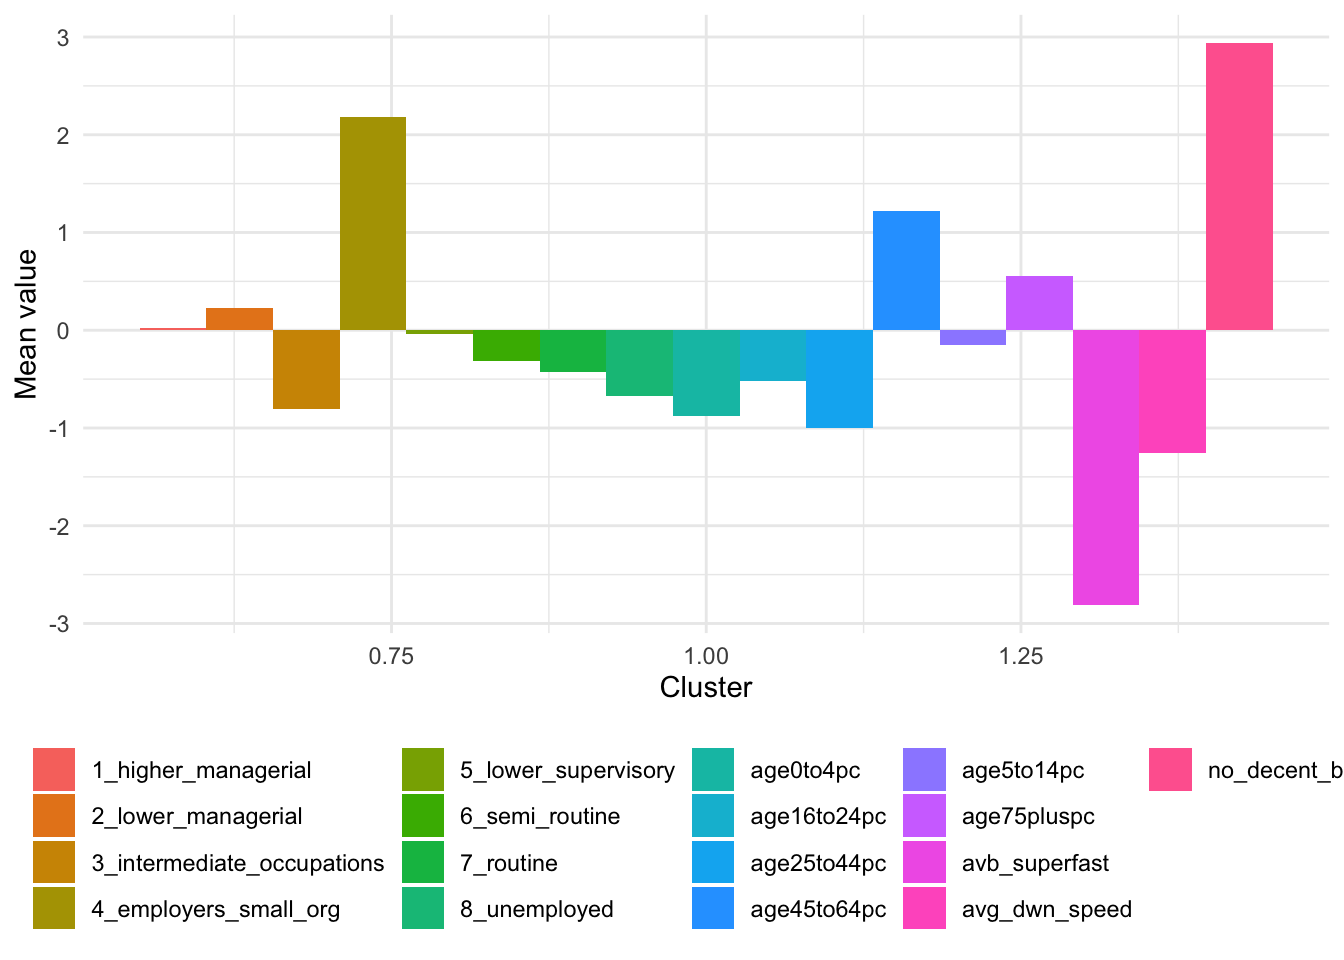
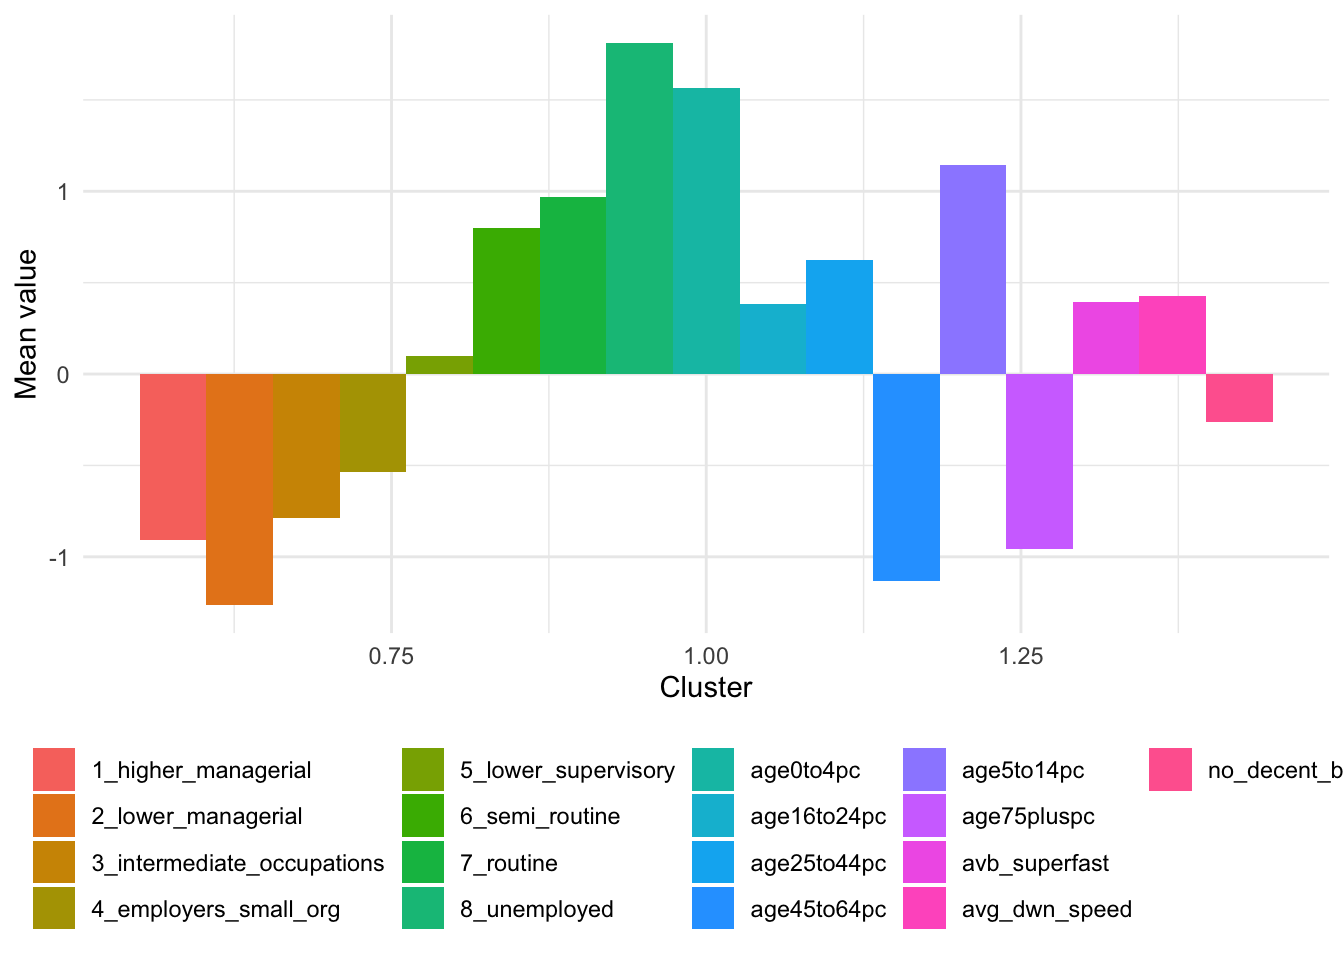
update code layout plots

Changed region(s): [[0.3438, 0.0312, 0.9688, 0.6562], [0.0938, 0.125, 0.4062, 0.6562]]

diff --git a/docs/01-geodemographics.html b/docs/01-geodemographics.html
@@ -706,7 +706,7 @@ First 10 features:
 [1] 110934.1
 
 [[3]]
-[1] 96048.04
+[1] 96047.11
 
 [[4]]
 [1] 82701.63
@@ -730,15 +730,15 @@ First 10 features:
 <span id="cb22-6"><a href="#cb22-6" aria-hidden="true" tabindex="-1"></a></span>
 <span id="cb22-7"><a href="#cb22-7" aria-hidden="true" tabindex="-1"></a><span class="co"># add cluster numbers</span></span>
 <span id="cb22-8"><a href="#cb22-8" aria-hidden="true" tabindex="-1"></a>wss_values<span class="sc">$</span>cluster <span class="ot">&lt;-</span> <span class="fu">seq.int</span>(<span class="fu">nrow</span>(wss_values))</span>
-<span id="cb22-9"><a href="#cb22-9" aria-hidden="true" tabindex="-1"></a><span class="fu">names</span>(wss_values) <span class="ot">&lt;-</span> <span class="fu">c</span>(<span class="st">'wss'</span>,<span class="st">'cluster'</span>)</span>
+<span id="cb22-9"><a href="#cb22-9" aria-hidden="true" tabindex="-1"></a><span class="fu">names</span>(wss_values) <span class="ot">&lt;-</span> <span class="fu">c</span>(<span class="st">"wss"</span>,<span class="st">"cluster"</span>)</span>
 <span id="cb22-10"><a href="#cb22-10" aria-hidden="true" tabindex="-1"></a></span>
 <span id="cb22-11"><a href="#cb22-11" aria-hidden="true" tabindex="-1"></a><span class="co"># plot using ggplot2</span></span>
 <span id="cb22-12"><a href="#cb22-12" aria-hidden="true" tabindex="-1"></a><span class="fu">ggplot</span>(<span class="at">data=</span>wss_values, <span class="fu">aes</span>(<span class="at">x=</span>cluster,<span class="at">y=</span>wss)) <span class="sc">+</span></span>
 <span id="cb22-13"><a href="#cb22-13" aria-hidden="true" tabindex="-1"></a>  <span class="fu">geom_point</span>() <span class="sc">+</span></span>
 <span id="cb22-14"><a href="#cb22-14" aria-hidden="true" tabindex="-1"></a>  <span class="fu">geom_path</span>() <span class="sc">+</span> </span>
 <span id="cb22-15"><a href="#cb22-15" aria-hidden="true" tabindex="-1"></a>  <span class="fu">scale_x_continuous</span>(<span class="at">breaks=</span><span class="fu">seq</span>(<span class="dv">1</span>,<span class="dv">15</span>)) <span class="sc">+</span></span>
-<span id="cb22-16"><a href="#cb22-16" aria-hidden="true" tabindex="-1"></a>  <span class="fu">xlab</span>(<span class="st">'Number of clusters'</span>) <span class="sc">+</span></span>
-<span id="cb22-17"><a href="#cb22-17" aria-hidden="true" tabindex="-1"></a>  <span class="fu">ylab</span>(<span class="st">'Within sum of squares'</span>) <span class="sc">+</span></span>
+<span id="cb22-16"><a href="#cb22-16" aria-hidden="true" tabindex="-1"></a>  <span class="fu">xlab</span>(<span class="st">"Number of clusters"</span>) <span class="sc">+</span></span>
+<span id="cb22-17"><a href="#cb22-17" aria-hidden="true" tabindex="-1"></a>  <span class="fu">ylab</span>(<span class="st">"Within sum of squares"</span>) <span class="sc">+</span></span>
 <span id="cb22-18"><a href="#cb22-18" aria-hidden="true" tabindex="-1"></a>  <span class="fu">theme_minimal</span>()</span></code><button title="Copy to Clipboard" class="code-copy-button"><i class="bi"></i></button></pre></div>
 </div>
 <div class="cell-output-display">
@@ -807,7 +807,7 @@ First 10 features:
 <div class="sourceCode cell-code" id="cb25"><pre class="sourceCode r code-with-copy"><code class="sourceCode r"><span id="cb25-1"><a href="#cb25-1" aria-hidden="true" tabindex="-1"></a><span class="co"># inspect</span></span>
 <span id="cb25-2"><a href="#cb25-2" aria-hidden="true" tabindex="-1"></a>clusters</span></code><button title="Copy to Clipboard" class="code-copy-button"><i class="bi"></i></button></pre></div>
 <div class="cell-output cell-output-stdout">
-<pre><code>K-means clustering with 7 clusters of sizes 541, 1107, 2053, 186, 2039, 740, 1814
+<pre><code>K-means clustering with 7 clusters of sizes 1106, 2040, 742, 2050, 542, 1814, 186
 
 Cluster means:
      age0to4pc  age5to14pc age16to24pc age25to44pc age45to64pc age75pluspc
@@ -817,11 +817,11 @@ Cluster means:
  [ reached getOption("max.print") -- omitted 7 rows ]
 
 Clustering vector:
-[1] 6 2 5 5 2
+[1] 3 1 2 2 1
  [ reached getOption("max.print") -- omitted 8475 entries ]
 
 Within cluster sum of squares by cluster:
-[1]  6265.986  9429.647 11736.830  3401.821 11471.872
+[1]  9424.341 11489.776  7818.855 11694.290  6277.839
  [ reached getOption("max.print") -- omitted 2 entries ]
  (between_SS / total_SS =  56.3 %)
 
@@ -847,7 +847,7 @@ Available components:
 <span id="cb27-8"><a href="#cb27-8" aria-hidden="true" tabindex="-1"></a>kfit_size</span></code><button title="Copy to Clipboard" class="code-copy-button"><i class="bi"></i></button></pre></div>
 </div>
 <div class="cell-output cell-output-stdout">
-<pre><code>[1]  541 1107 2053  186 2039
+<pre><code>[1] 1106 2040  742 2050  542
  [ reached getOption("max.print") -- omitted 2 entries ]</code></pre>
 </div>
 <div class="sourceCode cell-code" id="cb29"><pre class="sourceCode r code-with-copy"><code class="sourceCode r"><span id="cb29-1"><a href="#cb29-1" aria-hidden="true" tabindex="-1"></a><span class="co"># mean values for each variable in each cluster</span></span>
@@ -860,13 +860,13 @@ Available components:
 <pre><code># A tibble: 7 × 18
   cluster age0to4pc age5to14pc age16to…¹ age25…² age45…³ age75…⁴ 1_hig…⁵ 2_low…⁶
     &lt;int&gt;     &lt;dbl&gt;      &lt;dbl&gt;     &lt;dbl&gt;   &lt;dbl&gt;   &lt;dbl&gt;   &lt;dbl&gt;   &lt;dbl&gt;   &lt;dbl&gt;
-1       1  -0.880      -0.148    -0.523  -0.998   1.22     0.554  0.0251   0.225
-2       2   1.56        1.14      0.381   0.626  -1.13    -0.954 -0.906   -1.26 
-3       3  -0.00815    -0.0824   -0.0526 -0.158   0.0919   0.164 -0.837   -0.849
-4       4  -1.52       -2.68      5.42    0.113  -2.62    -1.28   0.870    0.223
-5       5   0.0162      0.118    -0.172   0.0189  0.202   -0.103 -0.0481   0.211
-6       6   0.326      -0.923     0.209   2.05   -1.23    -0.927  1.50     1.26 
-7       7  -0.679      -0.0412   -0.465  -0.773   0.765    0.856  0.845    0.893
+1       1   1.57        1.14      0.382   0.626  -1.13    -0.955 -0.906   -1.26 
+2       2   0.0162      0.118    -0.171   0.0203  0.201   -0.104 -0.0475   0.211
+3       3   0.327      -0.918     0.208   2.04   -1.23    -0.926  1.50     1.26 
+4       4  -0.00623    -0.0805   -0.0519 -0.157   0.0898   0.162 -0.838   -0.851
+5       5  -0.879      -0.149    -0.523  -0.997   1.22     0.553  0.0242   0.225
+6       6  -0.681      -0.0427   -0.465  -0.776   0.767    0.860  0.842    0.890
+7       7  -1.52       -2.68      5.42    0.113  -2.62    -1.28   0.870    0.223
 # … with 9 more variables: `3_intermediate_occupations` &lt;dbl&gt;,
 #   `4_employers_small_org` &lt;dbl&gt;, `5_lower_supervisory` &lt;dbl&gt;,
 #   `6_semi_routine` &lt;dbl&gt;, `7_routine` &lt;dbl&gt;, `8_unemployed` &lt;dbl&gt;,
@@ -885,10 +885,10 @@ Available components:
 <span id="cb31-3"><a href="#cb31-3" aria-hidden="true" tabindex="-1"></a></span>
 <span id="cb31-4"><a href="#cb31-4" aria-hidden="true" tabindex="-1"></a><span class="co"># plot using ggplot2  </span></span>
 <span id="cb31-5"><a href="#cb31-5" aria-hidden="true" tabindex="-1"></a><span class="fu">ggplot</span>(kfit_mean_long, <span class="fu">aes</span>(<span class="at">x=</span>cluster, <span class="at">y=</span>value, <span class="at">fill=</span>name)) <span class="sc">+</span> </span>
-<span id="cb31-6"><a href="#cb31-6" aria-hidden="true" tabindex="-1"></a>  <span class="fu">geom_bar</span>(<span class="at">stat=</span><span class="st">'identity'</span>, <span class="at">position=</span><span class="st">"dodge"</span>) <span class="sc">+</span></span>
+<span id="cb31-6"><a href="#cb31-6" aria-hidden="true" tabindex="-1"></a>  <span class="fu">geom_bar</span>(<span class="at">stat=</span><span class="st">"identity"</span>, <span class="at">position=</span><span class="st">"dodge"</span>) <span class="sc">+</span></span>
 <span id="cb31-7"><a href="#cb31-7" aria-hidden="true" tabindex="-1"></a>  <span class="fu">scale_x_continuous</span>(<span class="at">breaks=</span><span class="fu">seq</span>(<span class="dv">1</span>,<span class="dv">7</span>,<span class="at">by=</span><span class="dv">1</span>)) <span class="sc">+</span></span>
-<span id="cb31-8"><a href="#cb31-8" aria-hidden="true" tabindex="-1"></a>  <span class="fu">xlab</span>(<span class="st">'Cluster'</span>) <span class="sc">+</span></span>
-<span id="cb31-9"><a href="#cb31-9" aria-hidden="true" tabindex="-1"></a>  <span class="fu">ylab</span>(<span class="st">'Mean value'</span>) <span class="sc">+</span></span>
+<span id="cb31-8"><a href="#cb31-8" aria-hidden="true" tabindex="-1"></a>  <span class="fu">xlab</span>(<span class="st">"Cluster"</span>) <span class="sc">+</span></span>
+<span id="cb31-9"><a href="#cb31-9" aria-hidden="true" tabindex="-1"></a>  <span class="fu">ylab</span>(<span class="st">"Mean value"</span>) <span class="sc">+</span></span>
 <span id="cb31-10"><a href="#cb31-10" aria-hidden="true" tabindex="-1"></a>  <span class="fu">theme_minimal</span>() <span class="sc">+</span></span>
 <span id="cb31-11"><a href="#cb31-11" aria-hidden="true" tabindex="-1"></a>  <span class="fu">theme</span>(<span class="at">legend.title =</span> <span class="fu">element_blank</span>(),</span>
 <span id="cb31-12"><a href="#cb31-12" aria-hidden="true" tabindex="-1"></a>       <span class="at">legend.position =</span> <span class="st">"bottom"</span>)</span></code><button title="Copy to Clipboard" class="code-copy-button"><i class="bi"></i></button></pre></div>
@@ -920,9 +920,9 @@ Available components:
 </div>
 <div class="sourceCode cell-code" id="cb32"><pre class="sourceCode r code-with-copy"><code class="sourceCode r"><span id="cb32-1"><a href="#cb32-1" aria-hidden="true" tabindex="-1"></a><span class="co"># plot using ggplot2  </span></span>
 <span id="cb32-2"><a href="#cb32-2" aria-hidden="true" tabindex="-1"></a><span class="fu">ggplot</span>(kfit_mean_long[kfit_mean_long<span class="sc">$</span>cluster<span class="sc">==</span><span class="dv">1</span>,], <span class="fu">aes</span>(<span class="at">x=</span>cluster, <span class="at">y=</span>value, <span class="at">fill=</span>name)) <span class="sc">+</span> </span>
-<span id="cb32-3"><a href="#cb32-3" aria-hidden="true" tabindex="-1"></a>  <span class="fu">geom_bar</span>(<span class="at">stat=</span><span class="st">'identity'</span>, <span class="at">position=</span><span class="st">"dodge"</span>) <span class="sc">+</span></span>
-<span id="cb32-4"><a href="#cb32-4" aria-hidden="true" tabindex="-1"></a>  <span class="fu">xlab</span>(<span class="st">'Cluster'</span>) <span class="sc">+</span></span>
-<span id="cb32-5"><a href="#cb32-5" aria-hidden="true" tabindex="-1"></a>  <span class="fu">ylab</span>(<span class="st">'Mean value'</span>) <span class="sc">+</span></span>
+<span id="cb32-3"><a href="#cb32-3" aria-hidden="true" tabindex="-1"></a>  <span class="fu">geom_bar</span>(<span class="at">stat=</span><span class="st">"identity"</span>, <span class="at">position=</span><span class="st">"dodge"</span>) <span class="sc">+</span></span>
+<span id="cb32-4"><a href="#cb32-4" aria-hidden="true" tabindex="-1"></a>  <span class="fu">xlab</span>(<span class="st">"Cluster"</span>) <span class="sc">+</span></span>
+<span id="cb32-5"><a href="#cb32-5" aria-hidden="true" tabindex="-1"></a>  <span class="fu">ylab</span>(<span class="st">"Mean value"</span>) <span class="sc">+</span></span>
 <span id="cb32-6"><a href="#cb32-6" aria-hidden="true" tabindex="-1"></a>  <span class="fu">theme_minimal</span>() <span class="sc">+</span></span>
 <span id="cb32-7"><a href="#cb32-7" aria-hidden="true" tabindex="-1"></a>  <span class="fu">theme</span>(<span class="at">legend.title =</span> <span class="fu">element_blank</span>(),</span>
 <span id="cb32-8"><a href="#cb32-8" aria-hidden="true" tabindex="-1"></a>       <span class="at">legend.position =</span> <span class="st">"bottom"</span>)</span></code><button title="Copy to Clipboard" class="code-copy-button"><i class="bi"></i></button></pre></div>
